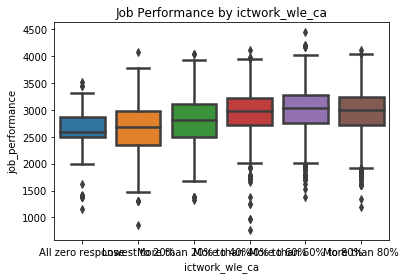
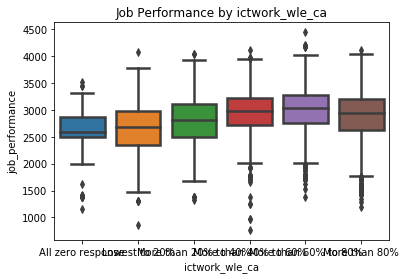
more boxplots

Changed region(s): [[0.8276, 0.3441, 0.9458, 0.4875], [0.8571, 0.5735, 0.9163, 0.7168]]

diff --git a/Pelican/content/blog/sharpestminds-project-part-3.rst b/Pelican/content/blog/sharpestminds-project-part-3.rst
@@ -143,6 +143,108 @@ If we want to roll-up and filter by an even larger geographic aggregation, we ca
         pl.show()
 
 
+The measured index scores are features which measure ones ability in the work environment and home, in a variety of domains (reading, technological competency, etc). These measures are ordinally binned into 5 buckets - each constituting 20% of the score for that measure. We have to do a little bit of preprocessing before we can start doing any vizualization, otherwise some of the methods would not work.
+
+..code-block:: python3
+    performance_index_values = ["writhome_wle_ca", "writwork_wle_ca","planning_wle_ca", "readhome_wle_ca", "readwork_wle_ca", 
+                            "readytolearn_wle_ca", "taskdisc_wle_ca", "learnatwork_wle_ca",  "icthome_wle_ca", "ictwork_wle_ca"]
+    
+    # temporarily fill the missing values for each index feature with the most frequent value
+    for col in performance_index_values:
+        index_df[col].fillna(value=index_df[col].value_counts().sort_values(ascending=False).index[0], inplace=True)
+
+    # set the ordinality of each of the values in this order
+    categories = ['All zero response', 'Lowest to 20%', 'More than 20% to 40%', 'More than 40% to 60%', 'More than 60% to 80%', 'More than 80%']
+    for i in index_df.columns[index_df.columns != 'job_performance']:
+        ordered_categorical_object = pd.Categorical(i, categories=categories, ordered=True)
+        index_df[i] = index_df[i].astype(ordered_categorical_object)
+
+    
+
+Now that we have done some preparation with the data, we can examine these ordinal features and their central tendency with some data visualization in the form of boxplots:
+
+..code-block:: python3
+
+    import seaborn as sns
+    %matplotlib inline
+    import matplotlib.pyplot as plt
+
+    fig, ax = plt.subplots()
+    for feature in performance_index_values:
+        fig = plt.figure()
+        plt.title("Job Performance by {}".format(feature))
+        sns.boxplot(x=feature, y="job_performance", data=index_df, linewidth=2.5, order=categories)
+    
+
+.. image:: /assets/data_visualizations/boxplot_icthome.png
+    :width: 402px
+    :height: 264px
+    :alt: box plot job performance by icthome
+    :align: center
+
+.. image:: /assets/data_visualizations/boxplot_ictwork.png
+    :width: 402px
+    :height: 264px
+    :alt: box plot job performance by ictwork
+    :align: center
+
+.. image:: /assets/data_visualizations/boxplot_icthome.png
+    :width: 402px
+    :height: 264px
+    :alt: box plot job performance by icthome
+    :align: center
+
+.. image:: /assets/data_visualizations/boxplot_icthome.png
+    :width: 402px
+    :height: 264px
+    :alt: box plot job performance by icthome
+    :align: center
+
+.. image:: /assets/data_visualizations/boxplot_learnatwork.png
+    :width: 402px
+    :height: 264px
+    :alt: box plot job performance by learnatwork
+    :align: center
+
+.. image:: /assets/data_visualizations/boxplot_planning.png
+    :width: 402px
+    :height: 264px
+    :alt: box plot job performance by planning
+    :align: center
+
+.. image:: /assets/data_visualizations/boxplot_readtolearn.png
+    :width: 402px
+    :height: 264px
+    :alt: box plot job performance by readtolearn
+    :align: center
+
+.. image:: /assets/data_visualizations/boxplot_readhome.png
+    :width: 402px
+    :height: 264px
+    :alt: box plot job performance by readhome
+    :align: center
+
+.. image:: /assets/data_visualizations/boxplot_taskdisc.png
+    :width: 402px
+    :height: 264px
+    :alt: box plot job performance by taskdisc
+    :align: center
+
+.. image:: /assets/data_visualizations/boxplot_writhome.png
+    :width: 402px
+    :height: 264px
+    :alt: box plot job performance by writhome
+    :align: center
+
+.. image:: /assets/data_visualizations/boxplot_writwork.png
+    :width: 402px
+    :height: 264px
+    :alt: box plot job performance by writwork
+    :align: center
+
+
+What we can gleen from this is ...
+
 
 Conclusion
 ----------
